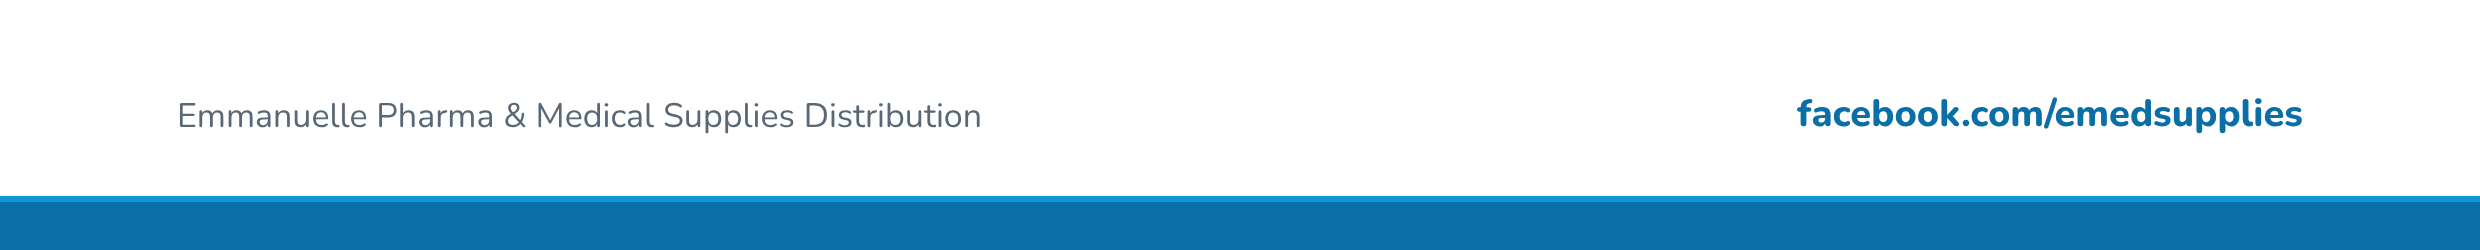
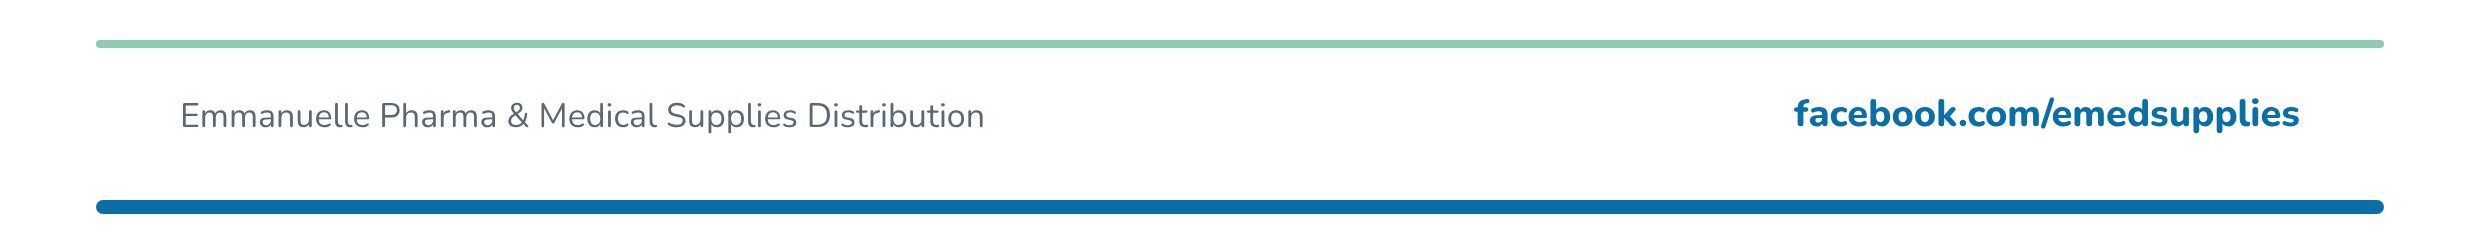
Letterheads: Emmanuelle government header matches brand look with address, add contact details
Claude-Session: https://claude.ai/code/session_01DnZsnBvbvTj4gLjw8LDG9Z

diff --git a/emmanuelle-pharma/print/2026-10-letterhead-government/source.html b/emmanuelle-pharma/print/2026-10-letterhead-government/source.html
@@ -2,34 +2,29 @@
 @font-face{font-family:"Nunito";font-weight:400;src:url("../../brand/fonts/nunito-latin-400-normal.woff2")}
 @font-face{font-family:"Nunito";font-weight:700;src:url("../../brand/fonts/nunito-latin-700-normal.woff2")}
 @font-face{font-family:"Nunito";font-weight:800;src:url("../../brand/fonts/nunito-latin-800-normal.woff2")}
-:root{--sky:#0e97db;--deep:#0a6fa6;--ink:#25323f;--muted:#5a6875;--sage:#8ccbb0}
+:root{--mist:#e3f2fa;--sage:#8ccbb0;--deep:#0a6fa6;--ink:#25323f;--muted:#5a6875}
 *{box-sizing:border-box;margin:0;padding:0}
 body{background:#888;font-family:"Nunito",sans-serif;display:flex;flex-direction:column;gap:40px;padding:40px;width:2560px}
 .piece{position:relative;width:2480px;background:#fff;overflow:hidden}
 .abs{position:absolute}
 #h1{height:500px}#h2{height:250px}#f{height:250px}
+.r{position:absolute;right:180px;text-align:right}
 </style></head><body>
 <div class="piece" id="h1">
-  <div class="abs" style="left:0;top:0;width:2480px;height:40px;background:var(--deep)"></div>
-  <div class="abs" style="left:0;top:40px;width:2480px;height:6px;background:var(--sky)"></div>
-  <img class="abs" style="left:177px;top:150px;height:210px" src="../../brand/logos/emmanuelle-landscape-navy.svg" alt="Emmanuelle Pharma and Medical Supplies Distribution">
-  <div class="abs" style="right:177px;top:150px;height:200px;display:flex;align-items:center;gap:32px">
-    <div id="addr" style="font-size:38px;line-height:54px;color:var(--ink);text-align:right"><b style="font-weight:800">[Registered business address]</b><br>[City], Philippines<br>[Contact number]  |  [Email]</div>
-    <div style="width:5px;height:176px;background:var(--sky)"></div>
-  </div>
-  <div class="abs" style="left:0;top:442px;width:2480px;height:6px;background:var(--sky)"></div>
-  <div class="abs" style="left:0;top:448px;width:2480px;height:20px;background:var(--deep)"></div>
+  <div class="abs" style="left:96px;top:60px;width:2288px;height:380px;border-radius:56px;background:var(--mist)"></div>
+  <img class="abs" style="left:177px;top:145px;height:210px" src="../../brand/logos/emmanuelle-landscape-navy.svg" alt="Emmanuelle Pharma and Medical Supplies Distribution">
+  <div class="r" style="top:158px;font-size:44px;line-height:64px;color:var(--muted)"><b style="font-weight:800;color:var(--deep);font-size:50px">209 Riverside Drive, Provident Village</b><br>Marikina City</div>
+
+  <div class="abs" style="left:96px;top:462px;width:2288px;height:8px;border-radius:4px;background:var(--sage)"></div>
 </div>
 <div class="piece" id="h2">
-  <div class="abs" style="left:0;top:0;width:2480px;height:22px;background:var(--deep)"></div>
-  <div class="abs" style="left:0;top:22px;width:2480px;height:4px;background:var(--sky)"></div>
-  <img class="abs" style="left:177px;top:60px;height:100px" src="../../brand/logos/emmanuelle-landscape-navy.svg" alt="Emmanuelle">
-  <div class="abs" style="left:0;top:192px;width:2480px;height:4px;background:var(--sky)"></div>
-  <div class="abs" style="left:0;top:196px;width:2480px;height:14px;background:var(--deep)"></div>
+  <div class="abs" style="left:96px;top:30px;width:2288px;height:160px;border-radius:44px;background:var(--mist)"></div>
+  <img class="abs" style="left:177px;top:62px;height:96px" src="../../brand/logos/emmanuelle-landscape-navy.svg" alt="Emmanuelle">
+    <div class="abs" style="left:96px;top:204px;width:2288px;height:8px;border-radius:4px;background:var(--sage)"></div>
 </div>
 <div class="piece" id="f">
-  <div class="abs" style="left:177px;top:92px;font-size:34px;line-height:48px;color:var(--muted)">Emmanuelle Pharma &amp; Medical Supplies Distribution</div>
-  <div class="abs" style="right:177px;top:88px;font-size:38px;line-height:52px;font-weight:800;color:var(--deep)">facebook.com/emedsupplies</div>
-  <div class="abs" style="left:0;top:196px;width:2480px;height:6px;background:var(--sky)"></div>
-  <div class="abs" style="left:0;top:202px;width:2480px;height:48px;background:var(--deep)"></div>
+  <div class="abs" style="left:96px;top:40px;width:2288px;height:8px;border-radius:4px;background:var(--sage)"></div>
+  <div class="abs" style="left:180px;top:92px;font-size:34px;line-height:48px;color:var(--muted)">Emmanuelle Pharma &amp; Medical Supplies Distribution</div>
+  <div class="r" style="top:88px;font-size:38px;line-height:52px;font-weight:800;color:var(--deep)">facebook.com/emedsupplies</div>
+  <div class="abs" style="left:96px;top:200px;width:2288px;height:14px;border-radius:7px;background:var(--deep)"></div>
 </div></body></html>

diff --git a/medplace/print/2026-10-letterhead-template/source.html b/medplace/print/2026-10-letterhead-template/source.html
@@ -15,7 +15,8 @@ body{background:#888;font-family:"DM Sans",sans-serif;display:flex;flex-directio
   <div class="abs" style="left:0;top:0;width:2480px;height:36px;background:var(--orange)"></div>
   <div class="abs" style="left:0;top:36px;width:2480px;height:8px;background:var(--teal)"></div>
   <img class="abs" style="left:177px;top:84px;height:340px" src="../../brand/logos/medplace.svg" alt="MedPlace Medical Supplies and Pharma">
-  <div class="pill" style="top:186px;height:128px;padding:0 64px;font-size:64px">Your #1 provider</div>
+  <div class="pill" style="top:140px;height:120px;padding:0 60px;font-size:60px">Your #1 provider</div>
+  <div class="abs" style="right:177px;top:292px;text-align:right;font-size:44px;line-height:64px;color:var(--ink)"><b style="font-weight:700">0995-156-0801</b><br>davemedplace@gmail.com</div>
   <div class="abs" style="left:0;top:452px;width:2480px;height:8px;background:var(--teal)"></div>
   <div class="abs" style="left:0;top:460px;width:2480px;height:20px;background:var(--orange)"></div>
 </div>
@@ -28,7 +29,7 @@ body{background:#888;font-family:"DM Sans",sans-serif;display:flex;flex-directio
   <div class="abs" style="left:0;top:196px;width:2480px;height:14px;background:var(--orange)"></div>
 </div>
 <div class="piece" id="f">
-  <div class="abs" style="left:177px;top:90px;font-size:36px;line-height:50px;color:var(--muted)">Medical Supplies &amp; Pharma</div>
+  <div class="abs" style="left:177px;top:90px;font-size:36px;line-height:50px;color:var(--muted)">0995-156-0801  |  davemedplace@gmail.com</div>
   <div class="abs" style="right:177px;top:80px;font-family:'Bricolage Grotesque';font-weight:800;font-size:56px;line-height:64px;color:var(--odeep)">Med<span style="color:var(--tdeep)">Place</span></div>
   <div class="abs" style="left:0;top:196px;width:2480px;height:6px;background:var(--teal)"></div>
   <div class="abs" style="left:0;top:202px;width:2480px;height:48px;background:var(--orange)"></div>

diff --git a/emmanuelle-pharma/print/2026-10-letterhead-brand/source.html b/emmanuelle-pharma/print/2026-10-letterhead-brand/source.html
@@ -13,7 +13,8 @@ body{background:#888;font-family:"Nunito",sans-serif;display:flex;flex-direction
 <div class="piece" id="h1">
   <div class="abs" style="left:96px;top:60px;width:2288px;height:380px;border-radius:56px;background:var(--mist)"></div>
   <img class="abs" style="left:177px;top:145px;height:210px" src="../../brand/logos/emmanuelle-landscape-navy.svg" alt="Emmanuelle Pharma and Medical Supplies Distribution">
-  <div class="r" style="top:158px;font-size:44px;line-height:64px;color:var(--muted)"><b style="font-weight:800;color:var(--deep);font-size:50px">Wholesale and Retail</b><br>facebook.com/emedsupplies</div>
+  <div class="r" style="top:132px;font-size:40px;line-height:58px;color:var(--muted)"><b style="font-weight:800;color:var(--deep);font-size:50px">Wholesale and Retail</b><br>0917-512-5050<br>sales.emedsupplyph@gmail.com<br>facebook.com/emedsupplies</div>
+
   <div class="abs" style="left:96px;top:462px;width:2288px;height:8px;border-radius:4px;background:var(--sage)"></div>
 </div>
 <div class="piece" id="h2">

diff --git a/emmanuelle-pharma/print/2026-10-letterhead-government/print.md b/emmanuelle-pharma/print/2026-10-letterhead-government/print.md
@@ -8,7 +8,7 @@
 | Status | Draft |
 | Design | Emmanuelle Design System (Nunito, brand deep, sky). Same logo as the [brand letterhead](../2026-10-letterhead-brand/print.md). Source: [source.html](source.html) |
 
-Government level letterhead for Emmanuelle Pharma & Medical Supplies Distribution. Straight full-width bands like the MedSource World government letterhead. The first-page address block holds placeholders in square brackets (registered address, contact number, email) to fill in `source.html` and re-export.
+Government level letterhead for Emmanuelle Pharma & Medical Supplies Distribution. Same soft look as the [brand letterhead](../2026-10-letterhead-brand/print.md), with the business address (209 Riverside Drive, Provident Village, Marikina City) and no contact person or phone.
 
 ## Files
 

diff --git a/emmanuelle-pharma/print/2026-10-letterhead-brand/print.md b/emmanuelle-pharma/print/2026-10-letterhead-brand/print.md
@@ -8,7 +8,7 @@
 | Status | Draft |
 | Design | Emmanuelle Design System (Nunito, cream, sky, sage, brand deep). Logo vectorized from the supplied landscape file. Source: [source.html](source.html) |
 
-Brand level letterhead. Uses the same logo as the [government letterhead](../2026-10-letterhead-government/print.md). Soft rounded mist panel, sage line, Wholesale and Retail, page line and #masmurakayemman in the footer. No address or phone, so it is ready to use as is.
+Brand level letterhead. Uses the same logo as the [government letterhead](../2026-10-letterhead-government/print.md). Soft rounded mist panel, sage line, Wholesale and Retail, page line and #masmurakayemman in the footer. Contact: 0917-512-5050, sales.emedsupplyph@gmail.com.
 
 ## Files
 

diff --git a/medplace/print/2026-10-letterhead-template/print.md b/medplace/print/2026-10-letterhead-template/print.md
@@ -8,7 +8,7 @@
 | Status | Draft |
 | Design | MedPlace Design System (logo orange and teal, Bricolage Grotesque, DM Sans). Logo vectorized from the supplied file. Source: [source.html](source.html) |
 
-Brand letterhead. Straight orange and teal bands, sticker-style Your #1 provider pill, dark ink on orange. No address or contact details yet; add them to `source.html` when confirmed.
+Brand letterhead. Straight orange and teal bands, sticker-style Your #1 provider pill, dark ink on orange. Contact: 0995-156-0801, davemedplace@gmail.com. No address yet.
 
 ## Files
 
